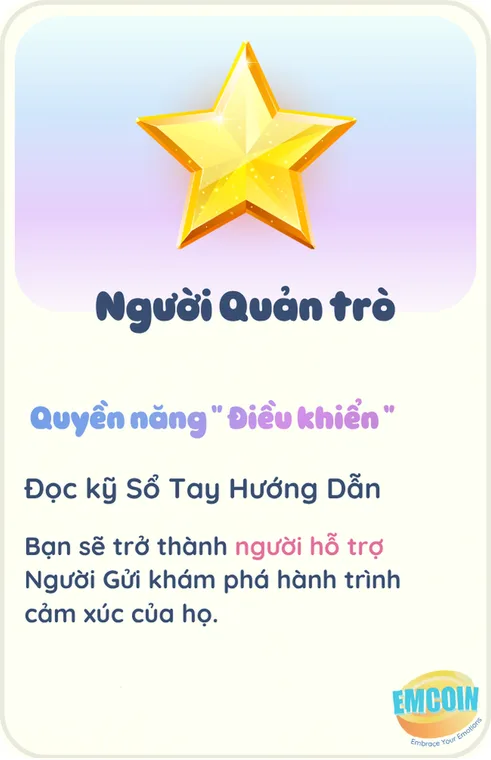
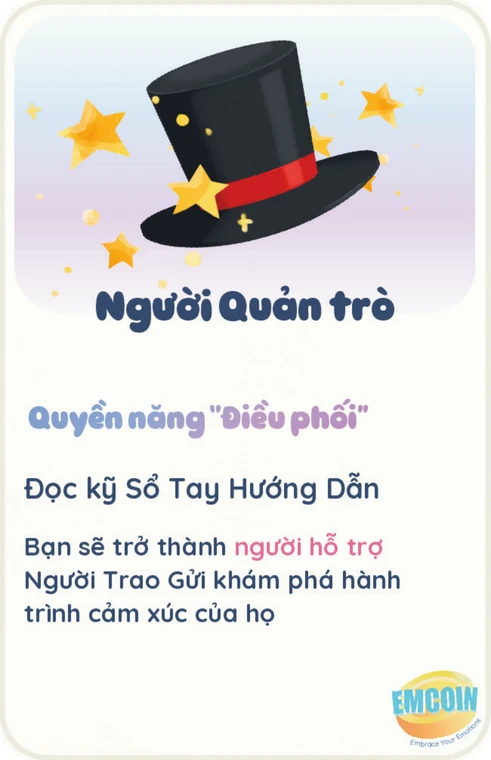
Update Quản Trò and Dẫn Lối role card artwork
New illustrations (black top hat / pink envelope) replace the old designs
across the 2D card viewer, 3D card showcase, and live gameplay role reveal
(all consume the same VT1/VT4 entries in cardImages.ts). Served locally
under fe/public/cards/vai-tro/ instead of the Cloudinary-hosted originals —
no Cloudinary access to overwrite those in place. cdnUrl() no-ops on
non-Cloudinary paths so this doesn't break the existing transform pipeline.

diff --git a/fe/src/constants/cardImages.ts b/fe/src/constants/cardImages.ts
@@ -6,10 +6,14 @@ const RAW_CARD_IMAGES = {
   // Vai trò (Role cards)
   roles: {
     back: 'https://res.cloudinary.com/djuksxdrw/image/upload/v1777469092/emcoin/vai-tro/m%E1%BA%B7t%20sau.png',
-    VT1: 'https://res.cloudinary.com/djuksxdrw/image/upload/v1777469093/emcoin/vai-tro/VT1.png',
+    // VT1 and VT4 (Quản Trò / Dẫn Lối) are served locally instead of Cloudinary —
+    // updated 2026-07 with new artwork, no Cloudinary access to overwrite the
+    // hosted originals. cdnUrl() below no-ops on non-Cloudinary URLs, so these
+    // pass through untouched.
+    VT1: '/cards/vai-tro/VT1.webp',
     VT2: 'https://res.cloudinary.com/djuksxdrw/image/upload/v1777469094/emcoin/vai-tro/VT2.png',
     VT3: 'https://res.cloudinary.com/djuksxdrw/image/upload/v1777469095/emcoin/vai-tro/VT3.png',
-    VT4: 'https://res.cloudinary.com/djuksxdrw/image/upload/v1777469097/emcoin/vai-tro/VT4.png',
+    VT4: '/cards/vai-tro/VT4.webp',
     VT5: 'https://res.cloudinary.com/djuksxdrw/image/upload/v1777469097/emcoin/vai-tro/VT5.png',
     VT6: 'https://res.cloudinary.com/djuksxdrw/image/upload/v1777469098/emcoin/vai-tro/VT6.png',
     VT7: 'https://res.cloudinary.com/djuksxdrw/image/upload/v1777469099/emcoin/vai-tro/VT7.png',
